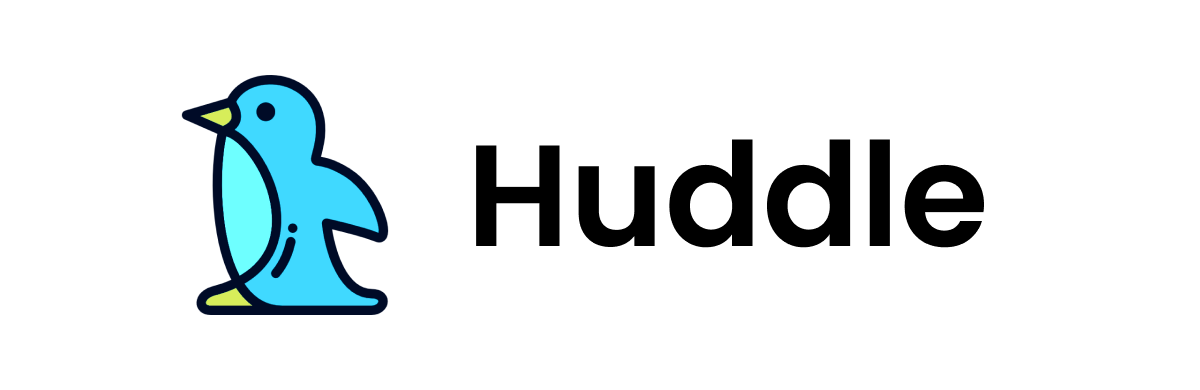
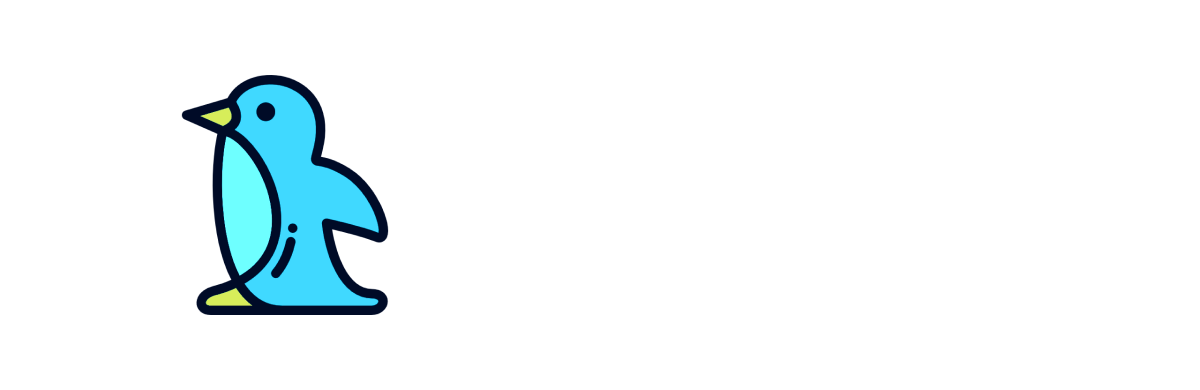
changing image

Changed region(s): [[0.37, 0.3385, 0.8325, 0.6462]]

diff --git a/app/components/Navbar.tsx b/app/components/Navbar.tsx
@@ -4,7 +4,7 @@ export default function Navbar() {
             <div className="container mx-auto px-4 py-3 flex items-center justify-between">
                 {/* Logo */}
                 <a href="#" className="flex items-center">
-                    <img src="/images/Huddle_Social.png" alt="Huddle Logo" className="h-10" />
+                    <img src="/images/Huddle_Social_Black.png" alt="Huddle Logo" className="h-16" />
                     <span className="ml-2 text-lg font-bold"></span>
                 </a>
 
